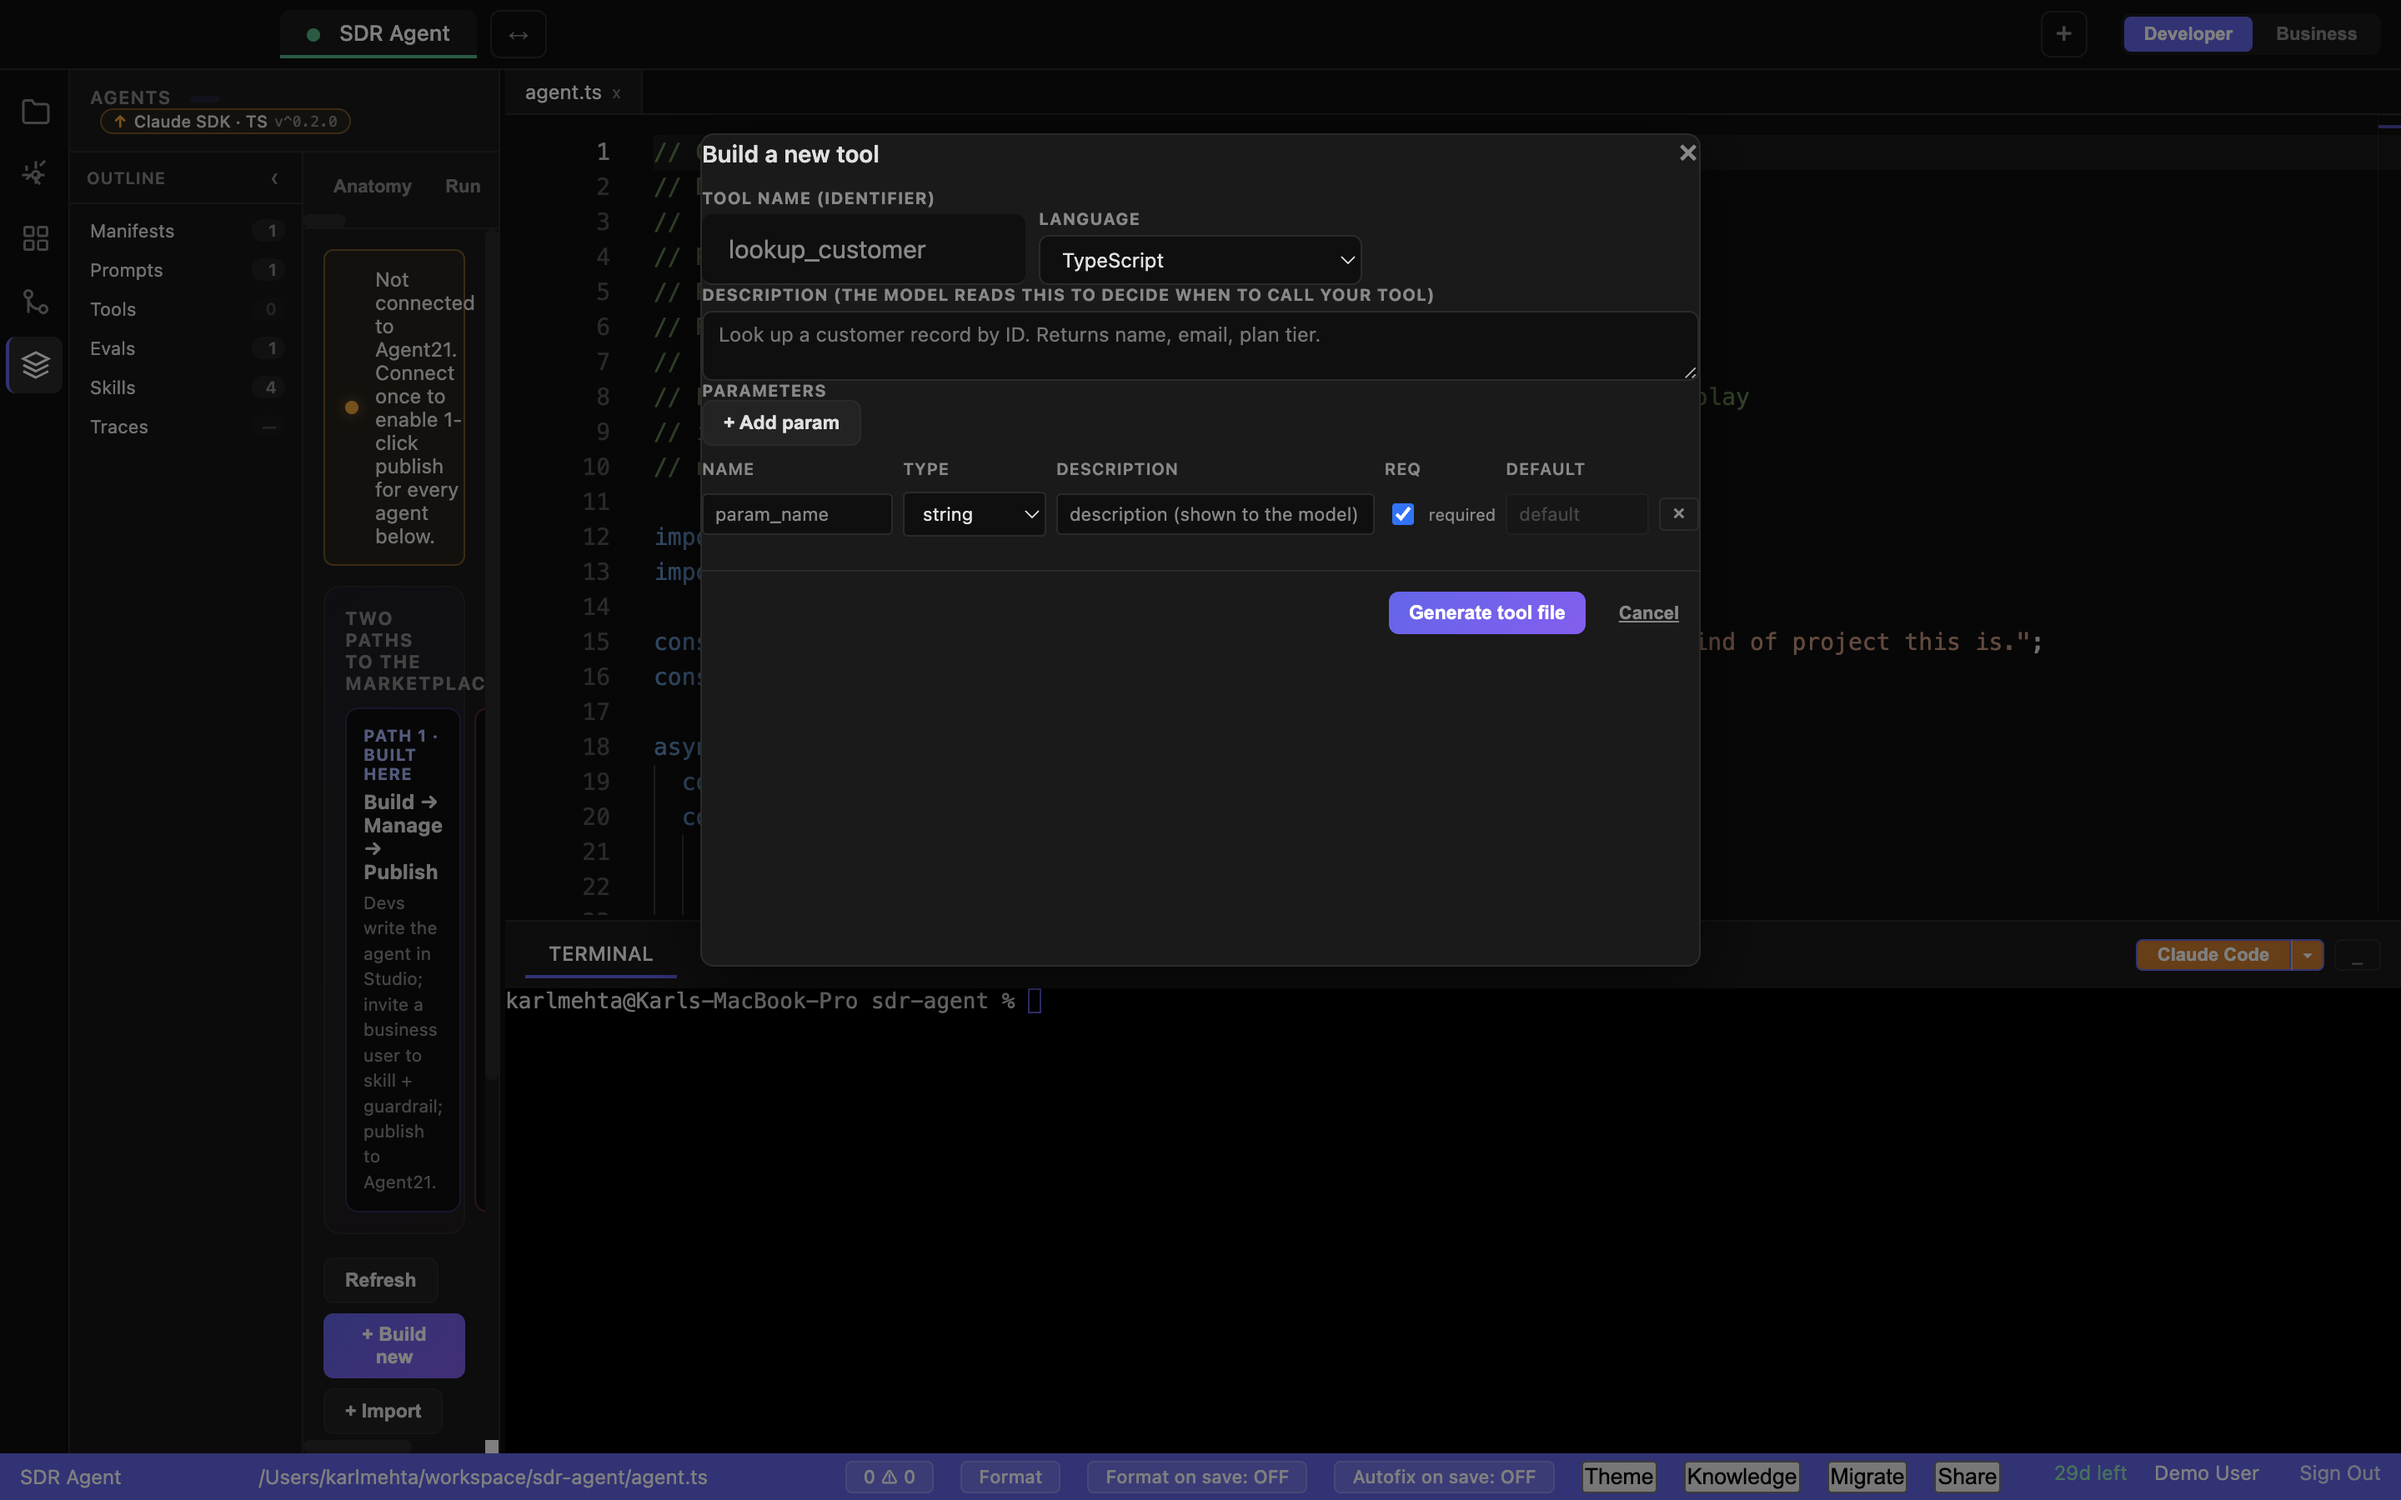
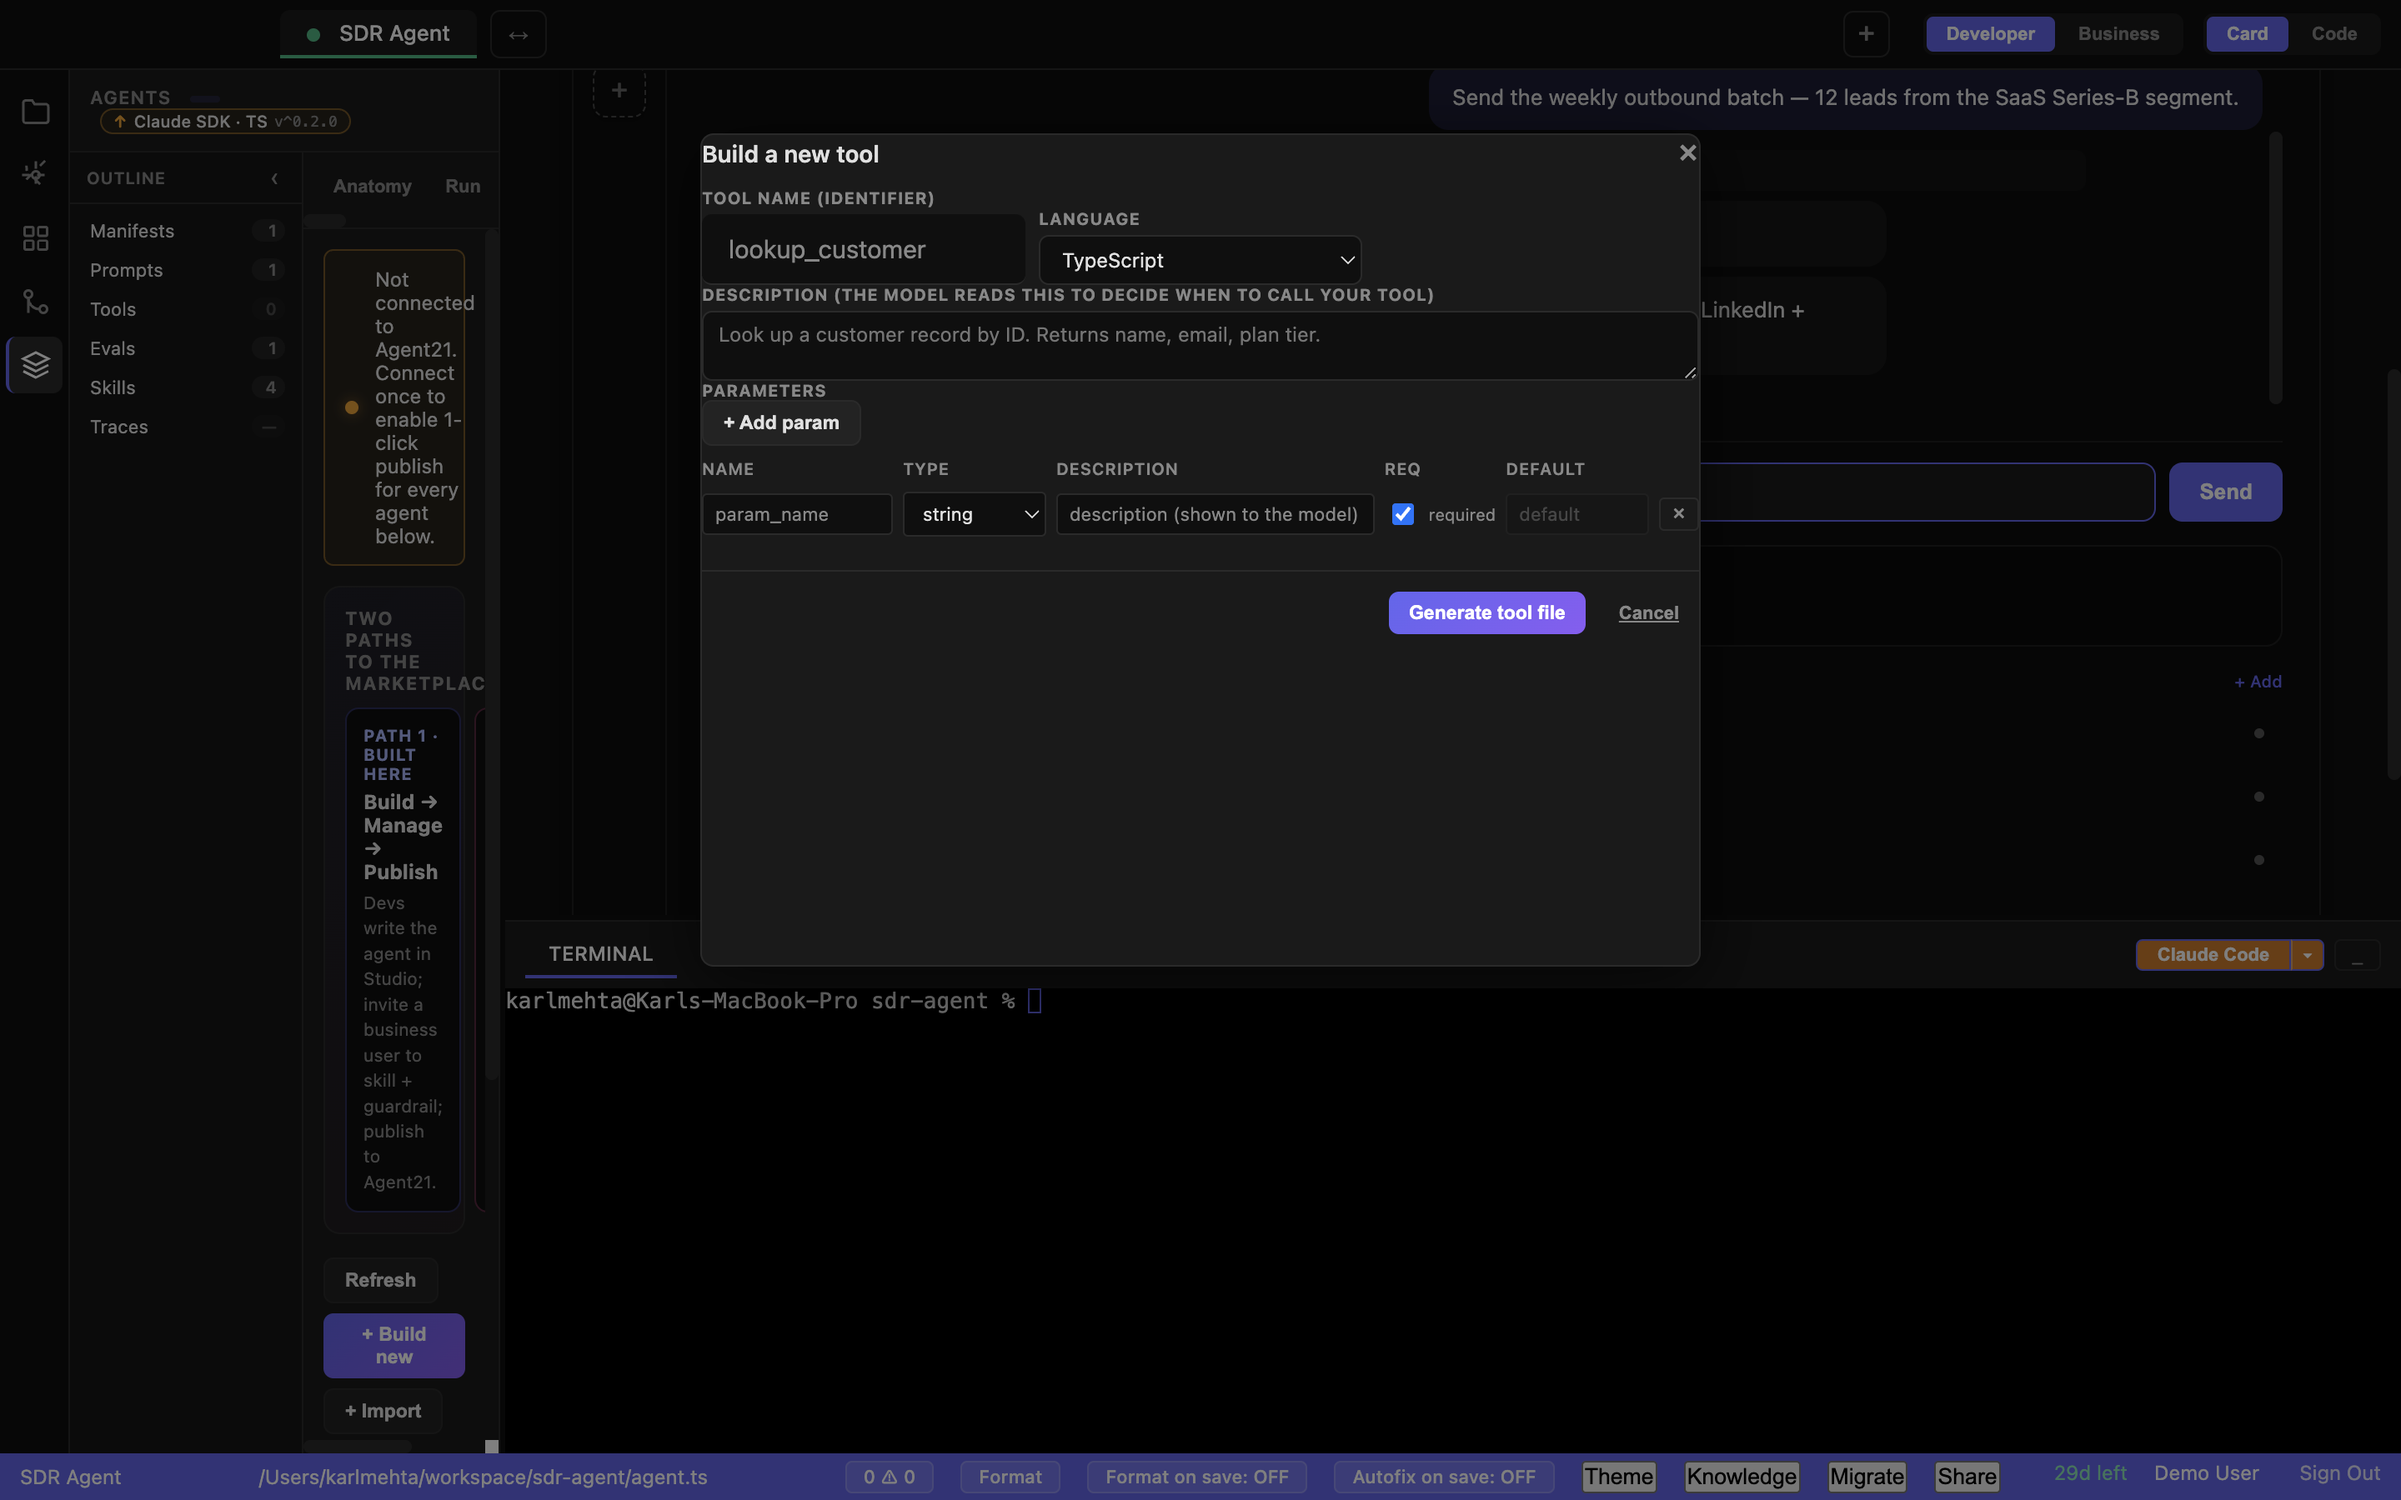
docs(ui-map): add Agent Card detail screenshots + close-up callouts
- agent-card-hero.png — full-window shot (canonical "what is CodeNow")
- agent-card-detail.png — tight crop on the card itself; replaces the
  squished-sidebar agents-anatomy.png that was the v0.1.4 main image
- agent-card-skills-rail.png — Skills rail close-up (rounded-square tiles)
- agent-card-lifecycle.png — Build → Test → Skillify → Guardrails → Publish → Deploy
- agent-card-identity.png — name + model badge + "trained by" + subagents pill
- agent-card-conversation.png — live conversation with multi-tool turn

Updated /reference/ui-map Anatomy section with inline element close-ups
so each region of the card has its own captioned image. Also refreshed
the older agents-* shots that benefited from Card view auto-promotion.

diff --git a/public/screenshots/README.md b/public/screenshots/README.md
@@ -29,4 +29,18 @@ Drop screenshots here named to match the placeholders in `/reference/ui-map`:
 - `share-modal.png` — Collaboration / Share modal
 - `tool-builder.png` — Visual Tool Builder modal
 
+### Agent Card detail set (added 2026-05-01)
+
+Added after the Card/Code topbar toggle promotes the Anatomy card into the
+main editor area (auto-promoted when there's a single agent). These are
+cropped clips of the same render so the wiki / blog can embed each piece
+without competing UI.
+
+- `agent-card-hero.png` — full-window shot; the canonical "what is CodeNow" image
+- `agent-card-detail.png` — tight crop on the agent card itself (lifecycle + identity + skills rail + conversation)
+- `agent-card-skills-rail.png` — close-up on the Skills rail (rounded-square skill tiles + `+ New skill`)
+- `agent-card-lifecycle.png` — Build → Test → Skillify → Guardrails → Publish → Deploy bar
+- `agent-card-identity.png` — identity tile (model badge, agent name, "trained by", subagents counter)
+- `agent-card-conversation.png` — live conversation pane with multi-tool turn
+
 PNG preferred, 1920x1200 retina. WebP also fine. Each placeholder in the wiki page references one of these filenames; once you drop the file in, the image renders automatically (no markup change needed).
